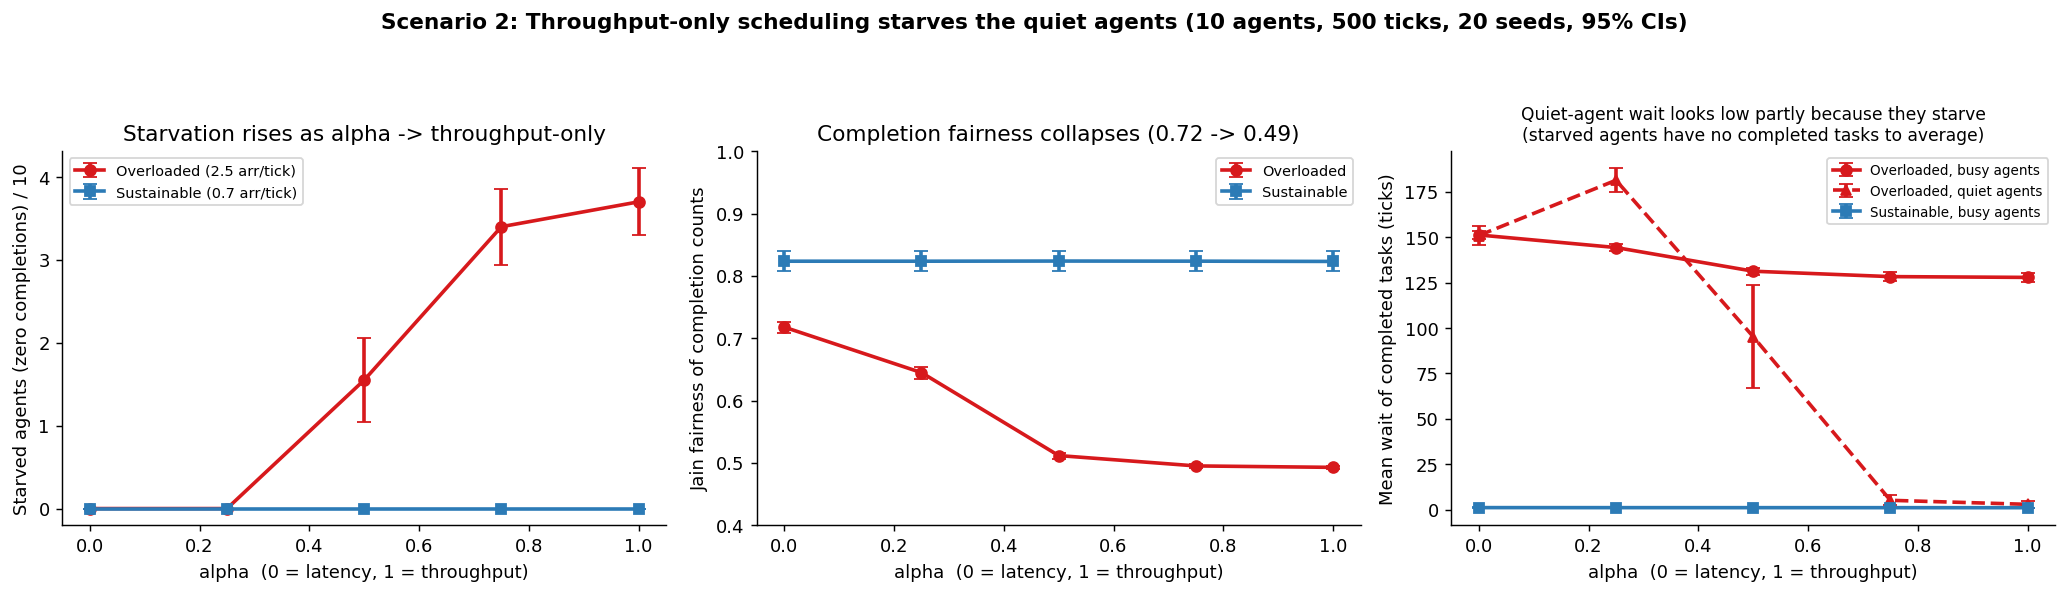
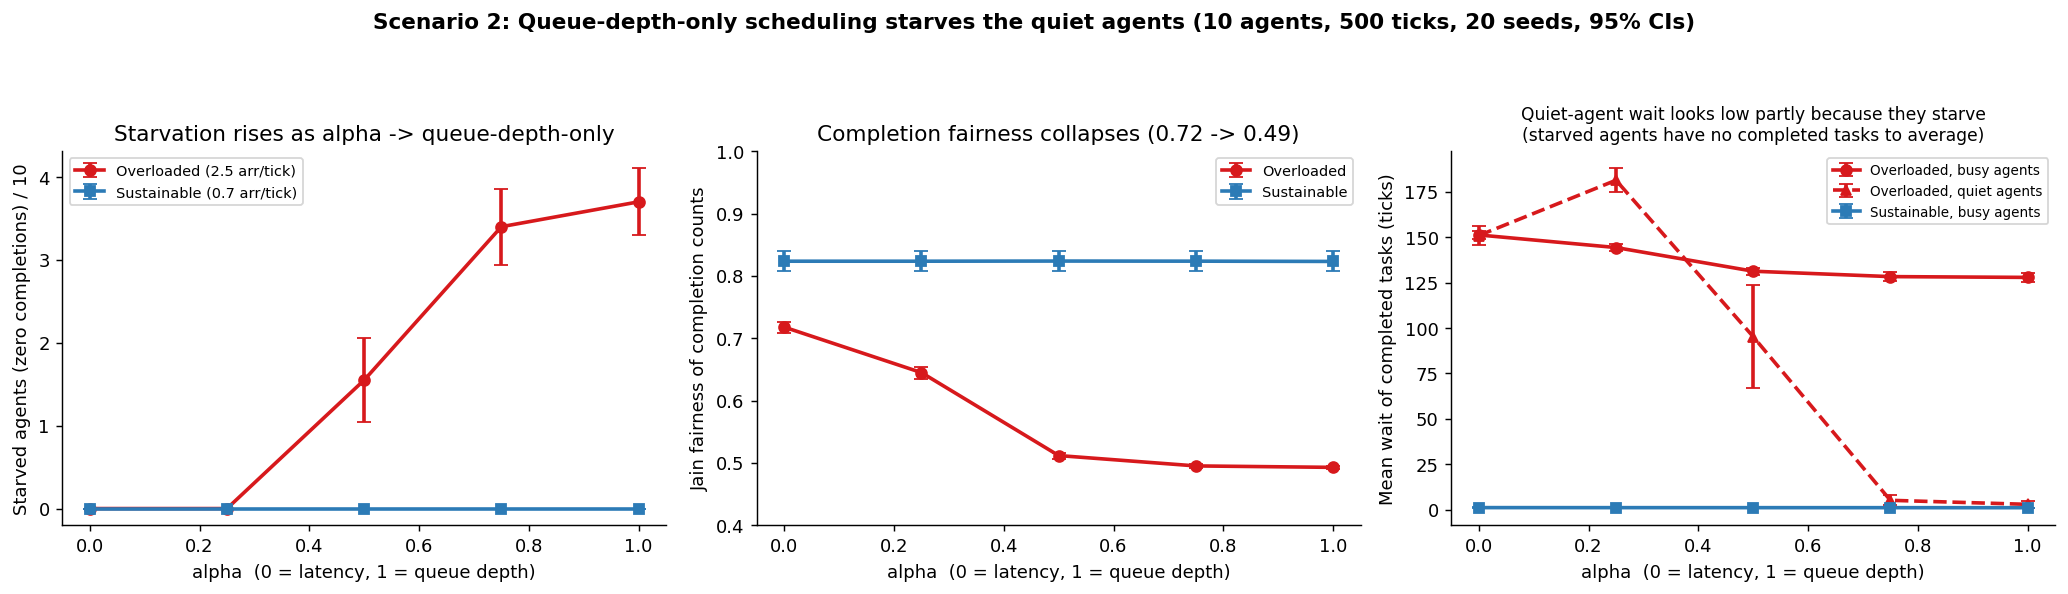
sim: relabel scenario 2/3 charts (queue-depth-only, not throughput)
alpha=1 is queue-depth-only scoring, not throughput optimization: total
completions stay capped across alpha, so the old 'throughput-only' /
'1 = throughput' labels overclaimed and contradicted the corrected Article 2
prose. Relabel to 'Queue-depth-only scheduling' and 'alpha (0 = latency,
1 = queue depth)' and regenerate the two PNGs. Data unchanged, labels only.

diff --git a/simulation/loco_simulation_plots.py b/simulation/loco_simulation_plots.py
@@ -105,7 +105,7 @@ def fig_scenario2():
 
     fig, axes = plt.subplots(1, 3, figsize=(16, 4.6))
     fig.suptitle(
-        "Scenario 2: Throughput-only scheduling starves the quiet agents "
+        "Scenario 2: Queue-depth-only scheduling starves the quiet agents "
         "(10 agents, 500 ticks, 20 seeds, 95% CIs)",
         fontsize=12, fontweight="bold",
     )
@@ -119,9 +119,9 @@ def fig_scenario2():
     m, c = means_cis(sust, "starved")
     ax.errorbar(a, m, yerr=c, color=SUST, marker="s", linewidth=2,
                 capsize=4, label="Sustainable (0.7 arr/tick)")
-    ax.set_xlabel("alpha  (0 = latency, 1 = throughput)")
+    ax.set_xlabel("alpha  (0 = latency, 1 = queue depth)")
     ax.set_ylabel("Starved agents (zero completions) / 10")
-    ax.set_title("Starvation rises as alpha -> throughput-only")
+    ax.set_title("Starvation rises as alpha -> queue-depth-only")
     ax.set_ylim(bottom=-0.2)
     ax.legend(fontsize=8)
 
@@ -133,7 +133,7 @@ def fig_scenario2():
     m, c = means_cis(sust, "jain_c")
     ax.errorbar(a, m, yerr=c, color=SUST, marker="s", linewidth=2,
                 capsize=4, label="Sustainable")
-    ax.set_xlabel("alpha  (0 = latency, 1 = throughput)")
+    ax.set_xlabel("alpha  (0 = latency, 1 = queue depth)")
     ax.set_ylabel("Jain fairness of completion counts")
     ax.set_title("Completion fairness collapses (0.72 -> 0.49)")
     ax.set_ylim(0.4, 1.0)
@@ -150,7 +150,7 @@ def fig_scenario2():
     m, c = means_cis(sust, "hi")
     ax.errorbar(a, m, yerr=c, color=SUST, marker="s", linewidth=2,
                 capsize=4, label="Sustainable, busy agents")
-    ax.set_xlabel("alpha  (0 = latency, 1 = throughput)")
+    ax.set_xlabel("alpha  (0 = latency, 1 = queue depth)")
     ax.set_ylabel("Mean wait of completed tasks (ticks)")
     ax.set_title("Quiet-agent wait looks low partly because they starve\n"
                  "(starved agents have no completed tasks to average)",
@@ -184,7 +184,7 @@ def fig_scenario3():
     for x, y, n in zip(a, wait_m, served_m):
         ax.annotate(f"{n:.0f}/5 served", (x, y), textcoords="offset points",
                     xytext=(0, 9), ha="center", fontsize=8, color=ACCENT)
-    ax.set_xlabel("alpha  (0 = latency, 1 = throughput)")
+    ax.set_xlabel("alpha  (0 = latency, 1 = queue depth)")
     ax.set_ylabel("Ticks after spike until a webhook is first served")
     ax.set_title("Latency-tuned scheduling (low alpha) serves urgent work ~3x faster",
                  fontsize=10)
